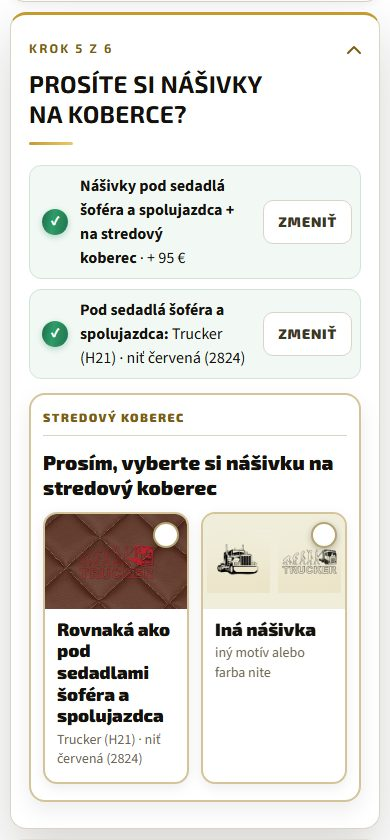
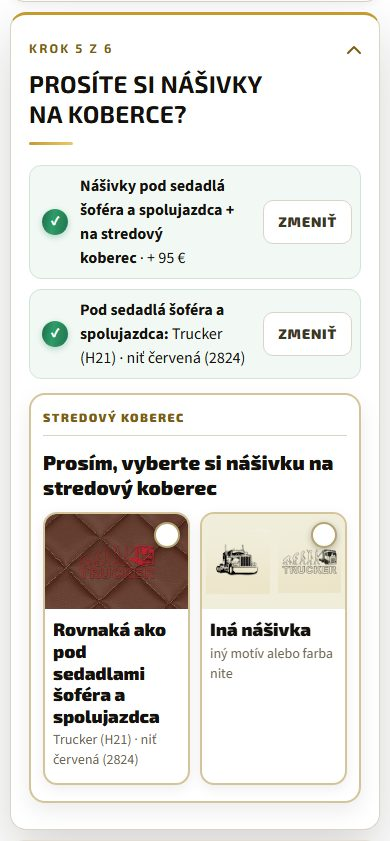
1V kamióny: revízia mierky — krok 5.1 fotka nad textom pri úzkom stĺpci, materiály tapacíru bez orezania, test orezania a POST
- krok 5.1: rozloženie fotka | text podľa šírky zoznamu (@container kn-dv ≥ 600 px), na PC 992–1919 px fotka nad textom
  (štítky Spolujazdec / Stredový koberec už neoreže okraj fotky); štítok vedľa krúžku width: min-content
- „Vybrať inak“: materiály tapacíru auto-fit min. 104 px (telefón 2 v rade, „jednofarebná“ celé na 360 / 375)
- úzke telefóny: dlaždice „rovnaké / inak“ s užšími okrajmi (≤ 400 px), na 320 px pod sebou a „Zmeniť“ pod textom riadka ✓
- krok 1: telefónne číslo a „7 modelov“ sa nelámu
- pismo-kamion.mjs: kontrola čiastočného orezania predkom s overflow hidden / clip, predvolená rola = bežný text 16 / 17,
  karty volieb nie sú „tlačidlo“; scenár overuje rozloženie 5.1 a telo POST bajt po bajte s post-porovnanie.json
- snímky e-*.jpg nanovo, plán §13.1

diff --git a/assets/css/luxuryCar.css b/assets/css/luxuryCar.css
@@ -19171,7 +19171,11 @@ body.lcd-1v[data-lcd1v-typ="kamion"] .lcd1v-lista button.lcd1v-lista__kos[disabl
 
 /* ===== Kroky 5 (nášivky) a 6 (tapacír) — návrh C 18. 10. 2026 + otázky po jednej (Michal 18. 10. 2026 večer; ui.js blokNasivky / blokTapacir) ===== */
 /* krok 5: 4 výlučné voľby — dlaždice s fotkou kabíny (výrez cez CSS: --z zväčšenie, --fx/--fy stred výrezu), krúžky na nášivkách */
-body.lcd-1v[data-lcd1v-typ="kamion"] #lcd1v-kamion .kn-dv { display: grid; grid-template-columns: minmax(0, 1fr); gap: 14px; }
+/* rozloženie fotka | text len keď je ZOZNAM dlaždíc dosť široký (kontajner kn-dv ≥ 600 px: tablet 768–991 px, PC 1920 px).
+   Pri užšom stĺpci konfigurátora (PC 992–1919 px: 388–491 px) by fotka mala len 46 % šírky a bola by vyššia ako široká:
+   štítky Spolujazdec / Stredový koberec by orezal okraj fotky (revízia 18. 10. 2026) -> fotka nad textom ako na telefóne.
+   Prehliadač bez dotazov na kontajner ostane pri fotke nad textom. */
+body.lcd-1v[data-lcd1v-typ="kamion"] #lcd1v-kamion .kn-dv { display: grid; grid-template-columns: minmax(0, 1fr); gap: 14px; container: kn-dv / inline-size; }
 body.lcd-1v[data-lcd1v-typ="kamion"] #lcd1v-kamion .kn-dv__b { position: relative; display: flex; flex-direction: column; width: 100%; margin: 0; padding: 0; overflow: hidden; border: 2px solid var(--k-ram); border-radius: 16px; background: #fff; box-shadow: 0 4px 14px rgba(20, 15, 5, .08); color: var(--k-ink); font: inherit; letter-spacing: 0; text-align: left; text-transform: none; cursor: pointer; transition: border-color .2s, box-shadow .2s, background-color .2s; -webkit-appearance: none; appearance: none; }
 @media (hover: hover) {
   body.lcd-1v[data-lcd1v-typ="kamion"] #lcd1v-kamion .kn-dv__b:hover { border-color: var(--k-gold); box-shadow: 0 8px 22px rgba(140, 105, 25, .18); }
@@ -19206,18 +19210,18 @@ body.lcd-1v[data-lcd1v-typ="kamion"] #lcd1v-kamion .kn-dv__top { display: block;
 @media (max-width: 359px) {
   body.lcd-1v[data-lcd1v-typ="kamion"] #lcd1v-kamion .kn-dv__top { padding-inline: 8px; font-size: 12px; letter-spacing: .1em; }
 }
-@media (min-width: 600px) {
+@container kn-dv (min-width: 600px) {
   body.lcd-1v[data-lcd1v-typ="kamion"] #lcd1v-kamion .kn-dv__b { display: grid; grid-template-columns: 46% minmax(0, 1fr); align-items: center; }
   body.lcd-1v[data-lcd1v-typ="kamion"] #lcd1v-kamion .kn-dv__b > .kn-foto { aspect-ratio: 4 / 3; }
   body.lcd-1v[data-lcd1v-typ="kamion"] #lcd1v-kamion .kn-dv__top { grid-column: 1 / -1; align-self: stretch; }
 }
-/* PC: fotka vyplní celú výšku dlaždice (text s cenovkou je vyšší než 4:3 -> predtým biele pásy nad a pod fotkou).
+/* fotka | text (kontajner kn-dv ≥ 600 px): fotka vyplní celú výšku dlaždice (text s cenovkou je vyšší než 4:3 -> predtým biele pásy nad a pod fotkou).
    Zväčšenie ostane z --z (krúžky a štítky Šofér / Spolujazdec celé), scéna je najmenej taká vysoká ako okno fotky
    (height max(z·75cqw, 100,5 %), šírka z pomeru 4:3) a výrez sa len posunie tak, aby pri okraji nevznikla medzera
    (clamp). Výška okna len v % (cqh pri výške z min-height Chrome vyhodnotil ako 0); šírka okna = 100cqw. Prehliadač
    bez jednotiek kontajnera ostane pri 4:3 vyššie. */
 @supports (width: 1cqw) {
-  @media (min-width: 600px) {
+  @container kn-dv (min-width: 600px) {
     body.lcd-1v[data-lcd1v-typ="kamion"] #lcd1v-kamion .kn-dv__b { align-items: stretch; }
     body.lcd-1v[data-lcd1v-typ="kamion"] #lcd1v-kamion .kn-dv__b > .kn-foto { aspect-ratio: auto; min-height: 210px; container-type: inline-size; }
     body.lcd-1v[data-lcd1v-typ="kamion"] #lcd1v-kamion .kn-dv__b > .kn-foto .kn-scena { --hs: max(calc(var(--z) * 75cqw), 100.5%); width: auto; height: var(--hs); left: clamp(calc(100% - var(--z) * 100%), calc(50% - var(--fx) * var(--z) * 100%), 0px); top: clamp(calc(100% - var(--hs)), calc(50% - var(--fy) * var(--hs)), 0px); transform: none; }
@@ -19323,6 +19327,17 @@ body.lcd-1v[data-lcd1v-typ="kamion"] #lcd1v-kamion .kn-hot--vnutri { margin: 0 0
 body.lcd-1v[data-lcd1v-typ="kamion"] #lcd1v-kamion .kn-hot + .k-chyba-tx, body.lcd-1v[data-lcd1v-typ="kamion"] #lcd1v-kamion .kn-hot + .k-btn-zelene { margin-top: 18px; }
 @media (max-width: 400px) {
   body.lcd-1v[data-lcd1v-typ="kamion"] #lcd1v-kamion .kn-karta { padding: 14px 12px 16px; }
+  /* „rovnaké / inak“ na úzkom telefóne (360 px): užšie okraje, aby sa „spolujazdca“ v názve 18 px zmestilo do dlaždice */
+  body.lcd-1v[data-lcd1v-typ="kamion"] #lcd1v-kamion .kn-rv { gap: 10px; }
+  body.lcd-1v[data-lcd1v-typ="kamion"] #lcd1v-kamion .kn-rv__tx { padding: 10px 8px 12px; }
+}
+/* najužšie telefóny (320 px): „Zmeniť“ pod text riadka ✓ (inak by nezalomiteľný koniec „koberec · + 95 €“ pretiekol) a
+   „rovnaké / inak“ pod sebou (názov 18 px „…spolujazdca“ by sa do polovice karty nezmestil) */
+@media (max-width: 340px) {
+  body.lcd-1v[data-lcd1v-typ="kamion"] #lcd1v-kamion .kn-rv { grid-template-columns: minmax(0, 1fr); }
+  body.lcd-1v[data-lcd1v-typ="kamion"] #lcd1v-kamion .kn-hot { flex-wrap: wrap; row-gap: 6px; }
+  body.lcd-1v[data-lcd1v-typ="kamion"] #lcd1v-kamion .kn-hot__tx { flex-basis: calc(100% - 38px); }
+  body.lcd-1v[data-lcd1v-typ="kamion"] #lcd1v-kamion .kn-hot__zm { margin-left: 38px; }
 }
 /* farby tapacíru v karte („Vybrať inak“): karta zúži mriežku (telefón, aj úzky stĺpec na tablete / PC 1024 px) ->
    stĺpce aspoň 86 px, aby sa názvy (Tmavohnedá, Karamelová …) nelámali uprostred slova */
@@ -19376,6 +19391,7 @@ body.lcd-1v[data-lcd1v-typ="kamion"] #lcd1v-kamion .k-krok.is-done:not(.is-open)
 body.lcd-1v[data-lcd1v-typ="kamion"] #lcd1v-kamion .k-krok.is-done:not(.is-open) .k-krok__zm { font-size: 14px; letter-spacing: .08em; }
 body.lcd-1v[data-lcd1v-typ="kamion"] #lcd1v-kamion .k-pod { font-size: 17px; line-height: 1.55; }
 body.lcd-1v[data-lcd1v-typ="kamion"] #lcd1v-kamion .k-pozn { font-size: 14px; }
+body.lcd-1v[data-lcd1v-typ="kamion"] #lcd1v-kamion .k-pozn a[href^="tel:"] { white-space: nowrap; }
 body.lcd-1v[data-lcd1v-typ="kamion"] #lcd1v-kamion .k-chyba-tx, body.lcd-1v[data-lcd1v-typ="kamion"] #lcd1v-kamion .sh__err { font-size: 15px; line-height: 1.4; }
 body.lcd-1v[data-lcd1v-typ="kamion"] #lcd1v-kamion .k-stitok, body.lcd-1v[data-lcd1v-typ="kamion"] #lcd1v-kamion .k-sk-h, body.lcd-1v[data-lcd1v-typ="kamion"] #lcd1v-kamion .tp-oddiel > .k-sk-h { font-size: 12px; }
 body.lcd-1v[data-lcd1v-typ="kamion"] #lcd1v-kamion .k-select { font-size: 16px; }
@@ -19386,7 +19402,9 @@ body.lcd-1v[data-lcd1v-typ="kamion"] #lcd1v-kamion .k-segment > button { font-si
 body.lcd-1v[data-lcd1v-typ="kamion"] #lcd1v-kamion .k-dlazdica__nm { font-size: 14px; letter-spacing: .04em; }
 body.lcd-1v[data-lcd1v-typ="kamion"] #lcd1v-kamion .k-dlazdica__nm small { margin-top: 4px; font-size: 14px; line-height: 1.2; }
 body.lcd-1v[data-lcd1v-typ="kamion"] #lcd1v-kamion .k-dlazdice--mat .k-dlazdica__nm { padding: 9px 3px 10px; font-size: 14px; letter-spacing: 0; text-transform: none; }
-body.lcd-1v[data-lcd1v-typ="kamion"] #lcd1v-kamion .kn-karta .k-dlazdice--mat { --k-dl-n: 3; }
+/* materiály tapacíru v karte („Vybrať inak“): stĺpec najmenej 104 px, aby sa „jednofarebná / jednofarebný“ (14–15 px, bez
+   verzálok) zmestili celé — telefón 2 v rade, PC 3–4, tablet 768 px všetkých 5 (pevných 5 v rade orezalo „jednofarebná“) */
+body.lcd-1v[data-lcd1v-typ="kamion"] #lcd1v-kamion .kn-karta .k-dlazdice--mat { grid-template-columns: repeat(auto-fit, minmax(min(100%, 104px), 1fr)); }
 body.lcd-1v[data-lcd1v-typ="kamion"] #lcd1v-kamion .k-nahlad-farby__nm, body.lcd-1v[data-lcd1v-typ="kamion"] #lcd1v-kamion .lm-nahlad p { font-size: 14px; }
 body.lcd-1v[data-lcd1v-typ="kamion"] #lcd1v-kamion .k-rkarta__foto b { font-size: 14px; }
 body.lcd-1v[data-lcd1v-typ="kamion"] #lcd1v-kamion .k-rkarta__nm { font-size: 18px; }
@@ -19408,7 +19426,9 @@ body.lcd-1v[data-lcd1v-typ="kamion"] #lcd1v-kamion .sh__c s, body.lcd-1v[data-lc
 body.lcd-1v[data-lcd1v-typ="kamion"] #lcd1v-kamion .tp-info, body.lcd-1v[data-lcd1v-typ="kamion"] #lcd1v-kamion .kn-info { font-size: 16px; line-height: 1.5; }
 body.lcd-1v[data-lcd1v-typ="kamion"] .lcd1v-lista .lcd1v-lista__suma small { font-size: 12px; }
 body.lcd-1v[data-lcd1v-typ="kamion"] #lcd1v-kamion .kn-bod b, body.lcd-1v[data-lcd1v-typ="kamion"] #lcd1v-kamion .kn-stitok { font-size: 12px; }
-body.lcd-1v[data-lcd1v-typ="kamion"] #lcd1v-kamion .kn-bod--bok b { max-width: 104px; }
+/* štítok vedľa krúžku (Stredový koberec v karte všetkých troch): šírka = najdlhšie slovo, každé slovo na svojom riadku (pri 12 px
+   by pevná šírka 104 px na PC presahovala okraj fotky) */
+body.lcd-1v[data-lcd1v-typ="kamion"] #lcd1v-kamion .kn-bod--bok b { width: min-content; max-width: none; }
 body.lcd-1v[data-lcd1v-typ="kamion"] #lcd1v-kamion .kn-ilu { font-size: 14px; }
 body.lcd-1v[data-lcd1v-typ="kamion"] #lcd1v-kamion .kn-dv__nm, body.lcd-1v[data-lcd1v-typ="kamion"] #lcd1v-kamion .kn-rv__nm { font-size: 18px; }
 body.lcd-1v[data-lcd1v-typ="kamion"] #lcd1v-kamion .kn-dv__po, body.lcd-1v[data-lcd1v-typ="kamion"] #lcd1v-kamion .kn-rv__po, body.lcd-1v[data-lcd1v-typ="kamion"] #lcd1v-kamion .kn-nie small { font-size: 14px; line-height: 1.4; }

diff --git a/assets/css/_lcd1v-kamiony.scss b/assets/css/_lcd1v-kamiony.scss
@@ -344,7 +344,11 @@ body.lcd-1v[data-lcd1v-typ="kamion"] .lcd1v-lista button.lcd1v-lista__kos[disabl
 
 /* ===== Kroky 5 (nášivky) a 6 (tapacír) — návrh C 18. 10. 2026 + otázky po jednej (Michal 18. 10. 2026 večer; ui.js blokNasivky / blokTapacir) ===== */
 /* krok 5: 4 výlučné voľby — dlaždice s fotkou kabíny (výrez cez CSS: --z zväčšenie, --fx/--fy stred výrezu), krúžky na nášivkách */
-body.lcd-1v[data-lcd1v-typ="kamion"] #lcd1v-kamion .kn-dv { display: grid; grid-template-columns: minmax(0, 1fr); gap: 14px; }
+/* rozloženie fotka | text len keď je ZOZNAM dlaždíc dosť široký (kontajner kn-dv ≥ 600 px: tablet 768–991 px, PC 1920 px).
+   Pri užšom stĺpci konfigurátora (PC 992–1919 px: 388–491 px) by fotka mala len 46 % šírky a bola by vyššia ako široká:
+   štítky Spolujazdec / Stredový koberec by orezal okraj fotky (revízia 18. 10. 2026) -> fotka nad textom ako na telefóne.
+   Prehliadač bez dotazov na kontajner ostane pri fotke nad textom. */
+body.lcd-1v[data-lcd1v-typ="kamion"] #lcd1v-kamion .kn-dv { display: grid; grid-template-columns: minmax(0, 1fr); gap: 14px; container: kn-dv / inline-size; }
 body.lcd-1v[data-lcd1v-typ="kamion"] #lcd1v-kamion .kn-dv__b { position: relative; display: flex; flex-direction: column; width: 100%; margin: 0; padding: 0; overflow: hidden; border: 2px solid var(--k-ram); border-radius: 16px; background: #fff; box-shadow: 0 4px 14px rgba(20, 15, 5, .08); color: var(--k-ink); font: inherit; letter-spacing: 0; text-align: left; text-transform: none; cursor: pointer; transition: border-color .2s, box-shadow .2s, background-color .2s; -webkit-appearance: none; appearance: none; }
 @media (hover: hover) {
   body.lcd-1v[data-lcd1v-typ="kamion"] #lcd1v-kamion .kn-dv__b:hover { border-color: var(--k-gold); box-shadow: 0 8px 22px rgba(140, 105, 25, .18); }
@@ -379,18 +383,18 @@ body.lcd-1v[data-lcd1v-typ="kamion"] #lcd1v-kamion .kn-dv__top { display: block;
 @media (max-width: 359px) {
   body.lcd-1v[data-lcd1v-typ="kamion"] #lcd1v-kamion .kn-dv__top { padding-inline: 8px; font-size: 12px; letter-spacing: .1em; }
 }
-@media (min-width: 600px) {
+@container kn-dv (min-width: 600px) {
   body.lcd-1v[data-lcd1v-typ="kamion"] #lcd1v-kamion .kn-dv__b { display: grid; grid-template-columns: 46% minmax(0, 1fr); align-items: center; }
   body.lcd-1v[data-lcd1v-typ="kamion"] #lcd1v-kamion .kn-dv__b > .kn-foto { aspect-ratio: 4 / 3; }
   body.lcd-1v[data-lcd1v-typ="kamion"] #lcd1v-kamion .kn-dv__top { grid-column: 1 / -1; align-self: stretch; }
 }
-/* PC: fotka vyplní celú výšku dlaždice (text s cenovkou je vyšší než 4:3 -> predtým biele pásy nad a pod fotkou).
+/* fotka | text (kontajner kn-dv ≥ 600 px): fotka vyplní celú výšku dlaždice (text s cenovkou je vyšší než 4:3 -> predtým biele pásy nad a pod fotkou).
    Zväčšenie ostane z --z (krúžky a štítky Šofér / Spolujazdec celé), scéna je najmenej taká vysoká ako okno fotky
    (height max(z·75cqw, 100,5 %), šírka z pomeru 4:3) a výrez sa len posunie tak, aby pri okraji nevznikla medzera
    (clamp). Výška okna len v % (cqh pri výške z min-height Chrome vyhodnotil ako 0); šírka okna = 100cqw. Prehliadač
    bez jednotiek kontajnera ostane pri 4:3 vyššie. */
 @supports (width: 1cqw) {
-  @media (min-width: 600px) {
+  @container kn-dv (min-width: 600px) {
     body.lcd-1v[data-lcd1v-typ="kamion"] #lcd1v-kamion .kn-dv__b { align-items: stretch; }
     body.lcd-1v[data-lcd1v-typ="kamion"] #lcd1v-kamion .kn-dv__b > .kn-foto { aspect-ratio: auto; min-height: 210px; container-type: inline-size; }
     body.lcd-1v[data-lcd1v-typ="kamion"] #lcd1v-kamion .kn-dv__b > .kn-foto .kn-scena { --hs: max(calc(var(--z) * 75cqw), 100.5%); width: auto; height: var(--hs); left: clamp(calc(100% - var(--z) * 100%), calc(50% - var(--fx) * var(--z) * 100%), 0px); top: clamp(calc(100% - var(--hs)), calc(50% - var(--fy) * var(--hs)), 0px); transform: none; }
@@ -496,6 +500,17 @@ body.lcd-1v[data-lcd1v-typ="kamion"] #lcd1v-kamion .kn-hot--vnutri { margin: 0 0
 body.lcd-1v[data-lcd1v-typ="kamion"] #lcd1v-kamion .kn-hot + .k-chyba-tx, body.lcd-1v[data-lcd1v-typ="kamion"] #lcd1v-kamion .kn-hot + .k-btn-zelene { margin-top: 18px; }
 @media (max-width: 400px) {
   body.lcd-1v[data-lcd1v-typ="kamion"] #lcd1v-kamion .kn-karta { padding: 14px 12px 16px; }
+  /* „rovnaké / inak“ na úzkom telefóne (360 px): užšie okraje, aby sa „spolujazdca“ v názve 18 px zmestilo do dlaždice */
+  body.lcd-1v[data-lcd1v-typ="kamion"] #lcd1v-kamion .kn-rv { gap: 10px; }
+  body.lcd-1v[data-lcd1v-typ="kamion"] #lcd1v-kamion .kn-rv__tx { padding: 10px 8px 12px; }
+}
+/* najužšie telefóny (320 px): „Zmeniť“ pod text riadka ✓ (inak by nezalomiteľný koniec „koberec · + 95 €“ pretiekol) a
+   „rovnaké / inak“ pod sebou (názov 18 px „…spolujazdca“ by sa do polovice karty nezmestil) */
+@media (max-width: 340px) {
+  body.lcd-1v[data-lcd1v-typ="kamion"] #lcd1v-kamion .kn-rv { grid-template-columns: minmax(0, 1fr); }
+  body.lcd-1v[data-lcd1v-typ="kamion"] #lcd1v-kamion .kn-hot { flex-wrap: wrap; row-gap: 6px; }
+  body.lcd-1v[data-lcd1v-typ="kamion"] #lcd1v-kamion .kn-hot__tx { flex-basis: calc(100% - 38px); }
+  body.lcd-1v[data-lcd1v-typ="kamion"] #lcd1v-kamion .kn-hot__zm { margin-left: 38px; }
 }
 /* farby tapacíru v karte („Vybrať inak“): karta zúži mriežku (telefón, aj úzky stĺpec na tablete / PC 1024 px) ->
    stĺpce aspoň 86 px, aby sa názvy (Tmavohnedá, Karamelová …) nelámali uprostred slova */
@@ -549,6 +564,7 @@ body.lcd-1v[data-lcd1v-typ="kamion"] #lcd1v-kamion .k-krok.is-done:not(.is-open)
 body.lcd-1v[data-lcd1v-typ="kamion"] #lcd1v-kamion .k-krok.is-done:not(.is-open) .k-krok__zm { font-size: 14px; letter-spacing: .08em; }
 body.lcd-1v[data-lcd1v-typ="kamion"] #lcd1v-kamion .k-pod { font-size: 17px; line-height: 1.55; }
 body.lcd-1v[data-lcd1v-typ="kamion"] #lcd1v-kamion .k-pozn { font-size: 14px; }
+body.lcd-1v[data-lcd1v-typ="kamion"] #lcd1v-kamion .k-pozn a[href^="tel:"] { white-space: nowrap; }
 body.lcd-1v[data-lcd1v-typ="kamion"] #lcd1v-kamion .k-chyba-tx, body.lcd-1v[data-lcd1v-typ="kamion"] #lcd1v-kamion .sh__err { font-size: 15px; line-height: 1.4; }
 body.lcd-1v[data-lcd1v-typ="kamion"] #lcd1v-kamion .k-stitok, body.lcd-1v[data-lcd1v-typ="kamion"] #lcd1v-kamion .k-sk-h, body.lcd-1v[data-lcd1v-typ="kamion"] #lcd1v-kamion .tp-oddiel > .k-sk-h { font-size: 12px; }
 body.lcd-1v[data-lcd1v-typ="kamion"] #lcd1v-kamion .k-select { font-size: 16px; }
@@ -559,7 +575,9 @@ body.lcd-1v[data-lcd1v-typ="kamion"] #lcd1v-kamion .k-segment > button { font-si
 body.lcd-1v[data-lcd1v-typ="kamion"] #lcd1v-kamion .k-dlazdica__nm { font-size: 14px; letter-spacing: .04em; }
 body.lcd-1v[data-lcd1v-typ="kamion"] #lcd1v-kamion .k-dlazdica__nm small { margin-top: 4px; font-size: 14px; line-height: 1.2; }
 body.lcd-1v[data-lcd1v-typ="kamion"] #lcd1v-kamion .k-dlazdice--mat .k-dlazdica__nm { padding: 9px 3px 10px; font-size: 14px; letter-spacing: 0; text-transform: none; }
-body.lcd-1v[data-lcd1v-typ="kamion"] #lcd1v-kamion .kn-karta .k-dlazdice--mat { --k-dl-n: 3; }
+/* materiály tapacíru v karte („Vybrať inak“): stĺpec najmenej 104 px, aby sa „jednofarebná / jednofarebný“ (14–15 px, bez
+   verzálok) zmestili celé — telefón 2 v rade, PC 3–4, tablet 768 px všetkých 5 (pevných 5 v rade orezalo „jednofarebná“) */
+body.lcd-1v[data-lcd1v-typ="kamion"] #lcd1v-kamion .kn-karta .k-dlazdice--mat { grid-template-columns: repeat(auto-fit, minmax(min(100%, 104px), 1fr)); }
 body.lcd-1v[data-lcd1v-typ="kamion"] #lcd1v-kamion .k-nahlad-farby__nm, body.lcd-1v[data-lcd1v-typ="kamion"] #lcd1v-kamion .lm-nahlad p { font-size: 14px; }
 body.lcd-1v[data-lcd1v-typ="kamion"] #lcd1v-kamion .k-rkarta__foto b { font-size: 14px; }
 body.lcd-1v[data-lcd1v-typ="kamion"] #lcd1v-kamion .k-rkarta__nm { font-size: 18px; }
@@ -581,7 +599,9 @@ body.lcd-1v[data-lcd1v-typ="kamion"] #lcd1v-kamion .sh__c s, body.lcd-1v[data-lc
 body.lcd-1v[data-lcd1v-typ="kamion"] #lcd1v-kamion .tp-info, body.lcd-1v[data-lcd1v-typ="kamion"] #lcd1v-kamion .kn-info { font-size: 16px; line-height: 1.5; }
 body.lcd-1v[data-lcd1v-typ="kamion"] .lcd1v-lista .lcd1v-lista__suma small { font-size: 12px; }
 body.lcd-1v[data-lcd1v-typ="kamion"] #lcd1v-kamion .kn-bod b, body.lcd-1v[data-lcd1v-typ="kamion"] #lcd1v-kamion .kn-stitok { font-size: 12px; }
-body.lcd-1v[data-lcd1v-typ="kamion"] #lcd1v-kamion .kn-bod--bok b { max-width: 104px; }
+/* štítok vedľa krúžku (Stredový koberec v karte všetkých troch): šírka = najdlhšie slovo, každé slovo na svojom riadku (pri 12 px
+   by pevná šírka 104 px na PC presahovala okraj fotky) */
+body.lcd-1v[data-lcd1v-typ="kamion"] #lcd1v-kamion .kn-bod--bok b { width: min-content; max-width: none; }
 body.lcd-1v[data-lcd1v-typ="kamion"] #lcd1v-kamion .kn-ilu { font-size: 14px; }
 body.lcd-1v[data-lcd1v-typ="kamion"] #lcd1v-kamion .kn-dv__nm, body.lcd-1v[data-lcd1v-typ="kamion"] #lcd1v-kamion .kn-rv__nm { font-size: 18px; }
 body.lcd-1v[data-lcd1v-typ="kamion"] #lcd1v-kamion .kn-dv__po, body.lcd-1v[data-lcd1v-typ="kamion"] #lcd1v-kamion .kn-rv__po, body.lcd-1v[data-lcd1v-typ="kamion"] #lcd1v-kamion .kn-nie small { font-size: 14px; line-height: 1.4; }

diff --git a/assets/js/components/konfigurator1v/kamion/ui.js b/assets/js/components/konfigurator1v/kamion/ui.js
@@ -395,7 +395,8 @@ export function vytvorUi(o) {
     const nie = esc(T.hlavicka.kompatibilita.nie_je_v_zozname)
       .replace("+421 903 660 720", '<a href="tel:+421903660720">+421 903 660 720</a>')
       .replace("info@luxurycardesign.sk", '<a href="mailto:info@luxurycardesign.sk">info@luxurycardesign.sk</a>');
-    html += '<p class="k-pozn">' + esc(t.poznamka) + "<br>" + nie + "</p>";
+    // číslo ostane pri slove („7 modelov“ sa nerozdelí na konci riadka); telefón celý drží CSS (white-space: nowrap)
+    html += '<p class="k-pozn">' + esc(t.poznamka).replace(/(\d) /g, "$1 ") + "<br>" + nie + "</p>";
     return html;
   }
 

diff --git a/docs/kamiony-1v-plan.md b/docs/kamiony-1v-plan.md
@@ -491,3 +491,17 @@ Základ: `origin/main` 742facc (iná session zväčšila písmo v ostatných 1V 
 | Automatický posun | `ui.js poOtazke()`: odpoveď na poslednú otvorenú podotázku kroku 5 / 6 (Pokračovať v poslednej karte, „Rovnaká ako pod sedadlami …“, „Rovnaká ako na kobercoch“, Nie pri nášivke na dvere, aj podotázka znova otvorená cez „Zmeniť“ a lišta „Pokračovať“ na telefóne) krok rovno uzavrie a otvorí ďalší (`pokracuj`, ako „Nie, ďakujem“); po kroku 6 súhrn. „Pokračujte ďalej / k súhrnu“ ostáva ako záloha pri znova otvorenom hotovom kroku. Stav `S` a košík sa nemenia (len `U.otvoreny`). |
 
 Testy: `kamion:test` (cena 68 · ceny vs gen.jsx NÁLEZ 0 · košík **356 OK** — pomocník `sam()`: po poslednej otázke krok 5 / 6 sám zavretý, ďalší otvorený, bez „Pokračujte“; cesta 17 znova otvára krok hlavičkou a overuje zálohu „Pokračujte“; cesta 18: lišta „Pokračovať“ v poslednej karte kroku 6 → súhrn · brána 42) · `truck:test` OK · `test-konfigurator-1v --novy --produkt 640 --sirka 1280,390` 10/10 — nové kontroly: **mierka písma** (`tools/test-1v/pismo-kamion.mjs`, getComputedStyle každého textu konfigurátora a lišty podľa roly, riadkovanie súvislého textu ≥ 1,5, žiadne slovo zalomené uprostred ani pretečené, bez vodorovného posuvníka) v krokoch 1–6 a súhrne na 390 aj 1280; automatický posun (krok 6 posunutý do okna) · POST kamion-platne 423 € a kamion-dodavka 258 € na 1280 aj 390 **bajt po bajte** = `post-porovnanie.json` → `revizia_2026_10_18` · bez flagu `--produkt all --krok brana,nulova-zmena --sirka 1280` 30/30 · `test-1v-obsah --produkt 640` 10/10 (nová kontrola 13: písmo vlastných tried obsahu ostro; spoločné časti len upozornenie — recenzie: hviezdičky a „Pred N týždňami“ 14 px na PC) · `build:once`, `vloz-lcd-css.py --check`, `build-admin-html.mjs --check` OK. Snímky `docs/kamiony-snimky/e-*.jpg` (390, 1280): krok 1 s hlavičkou, kroky 2–4, 5.1–5.5, krok 5 sám zavretý + krok 6, 6.1–6.5, kroky po automatickom zavretí, súhrn, obsah pod konfigurátorom (`node tools/snimky-kamion-kroky.mjs` — predvolene `docs/kamiony-snimky`, predpona `e-`; pri každej snímke vypíše kontrolu písma).
+
+### 13.1 Revízia mierky (18. 10. 2026 neskoro večer, lokálny commit na `kamiony-1v-lokal`, bez pushu)
+
+Základ `origin/main` 24c9f51 (lokálny commit mierky preložený navrch). Košík a ceny bez zmeny, bez `?novy=1` nulová zmena.
+
+| Nález revízie | Oprava |
+|---|---|
+| PC 1280 / 1366: štítok „Stredový koberec“ v karte všetkých troch orezaný okrajom fotky (12 px, 104 px) · PC 1024: štítky „Spolujazdec“ / „Stredový koberec“ orezané až úplne mimo fotky | Rozloženie fotka \| text v kroku 5.1 sa riadi **šírkou zoznamu** (`.kn-dv { container: kn-dv / inline-size }`, `@container kn-dv (min-width: 600px)`), nie šírkou okna. Stĺpec konfigurátora na PC 992–1919 px má len 388–491 px (1440 px: 461) — fotka na 46 % by bola vyššia ako široká a štítky by orezala; tam je teraz fotka nad textom ako na telefóne (fotka 16:10 cez celú šírku karty, všetky tri štítky celé). Fotka \| text ostáva pri zozname ≥ 600 px (tablet 768–991, PC 1920). Štítok vedľa krúžku má šírku najdlhšieho slova (`width: min-content`). |
+| Telefón 360–385 px: „jednofarebná / jednofarebný“ v materiáloch tapacíru („Vybrať inak“) orezané | Mriežka materiálov v karte `repeat(auto-fit, minmax(min(100%, 104px), 1fr))`: telefón 2 v rade, PC 1024–1440 3 v rade, PC 1920 4 v rade, tablet 768 všetkých 5; dlaždica má vždy aspoň 104 px, písmo ostáva 14 / 15. |
+| (nové pri kontrole na 360 / 320) „spolujazdca“ v dlaždici „Rovnaká ako pod sedadlami…“ pretieklo · na 320 px aj koniec riadka ✓ „… · + 95 €“ | ≤ 400 px užšie okraje dlaždíc „rovnaké / inak“ (gap 10, padding 10/8/12); ≤ 340 px dlaždice „rovnaké / inak“ pod sebou a „Zmeniť“ pod textom riadka ✓. |
+| Krok 1: telefón „+421“ / „903 660 720“ a „a 7“ / „modelov“ na dvoch riadkoch | `.k-pozn a[href^="tel:"] { white-space: nowrap }`; číslo s nasledujúcim slovom nezalomiteľnou medzerou (`ui.js`). |
+| Test písma nevidel orezanie predkom s `overflow: hidden` a bežal len na 390 / 1280 | `pismo-kamion.mjs`: nové pole `orez` — slovo, ktoré čiastočne skryje okraj predka s overflow hidden / clip (celé skryté a posuvné kontajnery sa nerátajú; zvislo tolerancia ¼ písma). Preverené na starom CSS: zachytí „Stredový −16 px“ (1280), „Spolujazdec −38 px“ (1024), „jednofarebná −11 px“ (360). Predvolená rola textu bez známej triedy je **bežný text 16 / 17** (nie poznámka 14 / 15) a texty v kartách / dlaždiciach volieb už nie sú „text tlačidla“; popis a suma lišty vymenované. Scenár kamion-platne overuje rozloženie 5.1 podľa šírky zoznamu a **telo POST porovná bajt po bajte** s `post-porovnanie.json` (platne = `react.body`, dodávka = `revizia_2026_10_18.posty`). Overené na 320, 360, 375, 390, 600, 768, 1024, 1280, 1440, 1920. |
+
+Neopravené (rozsah inej session): spoločné recenzie pod konfigurátorom — hviezdičky a „Pred N týždňami“ 14 px na PC (mierka 15; `_lcd1v-obsah-a`, sekcia a-recenzie).
